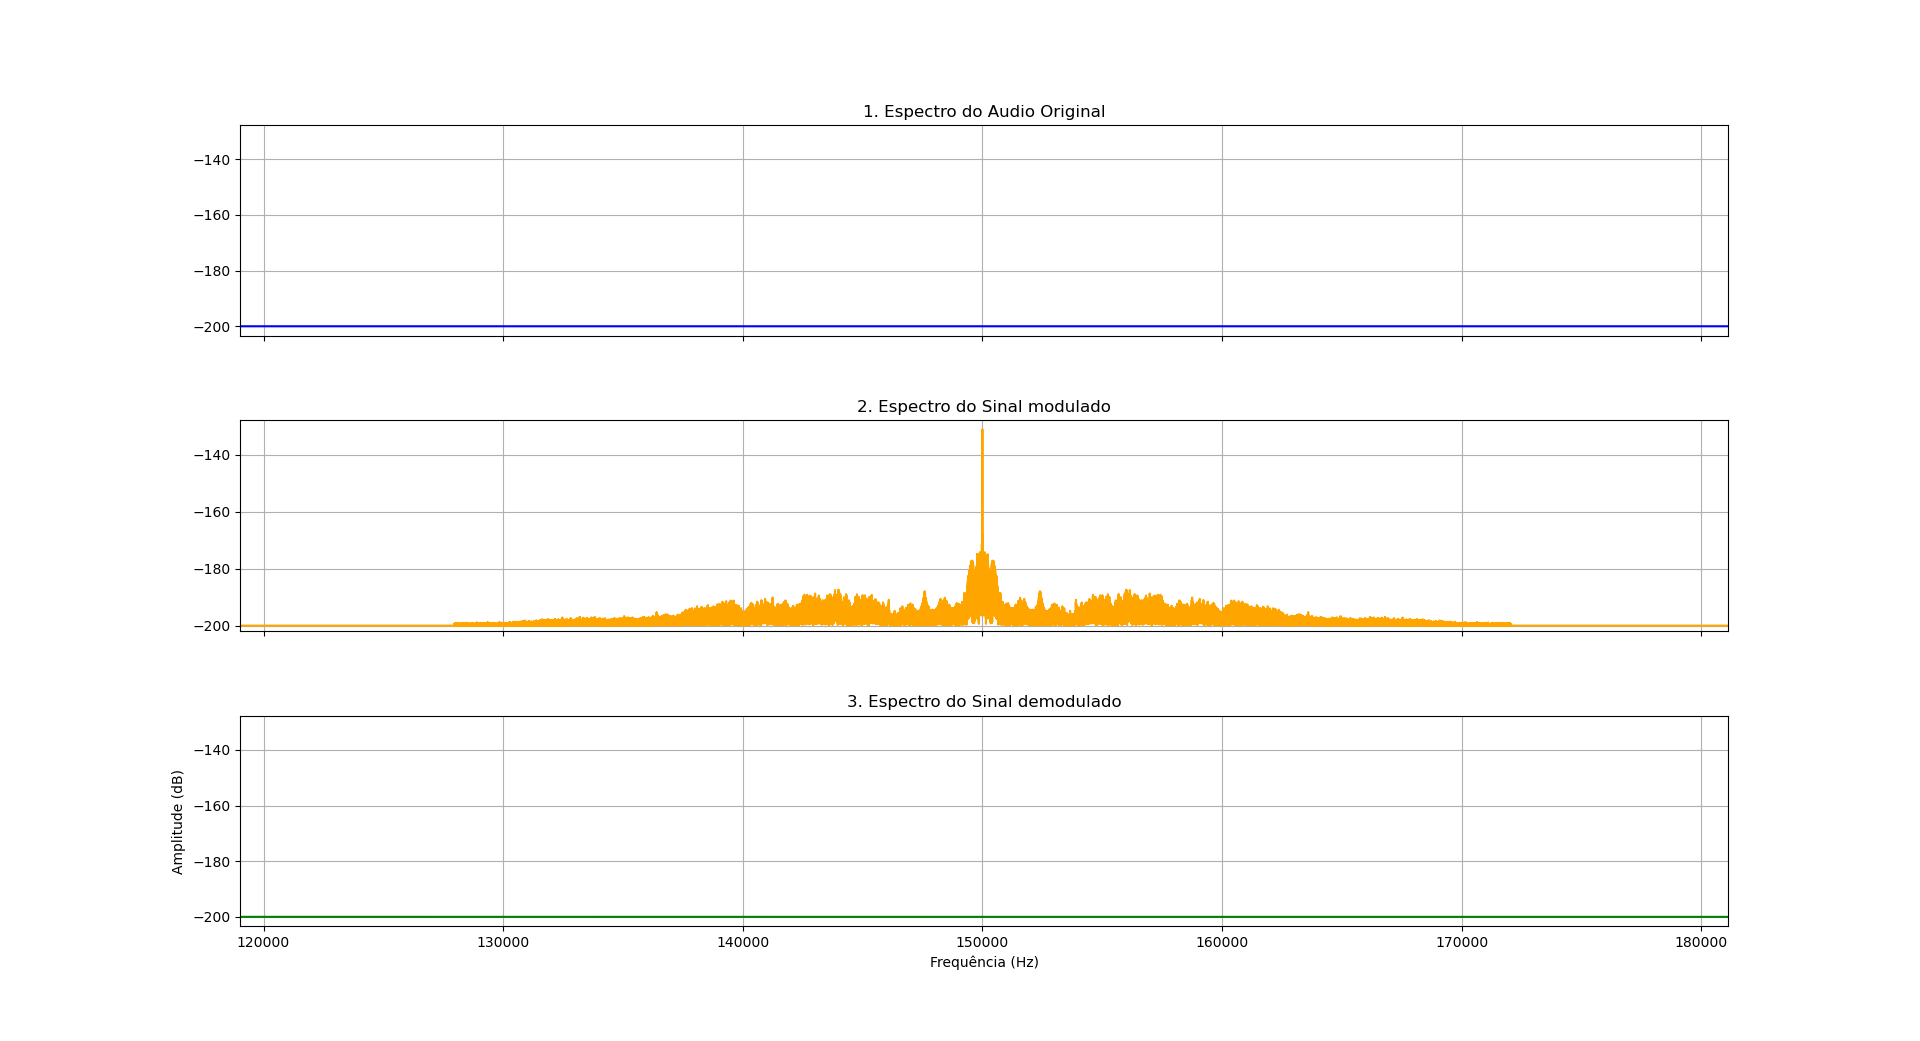
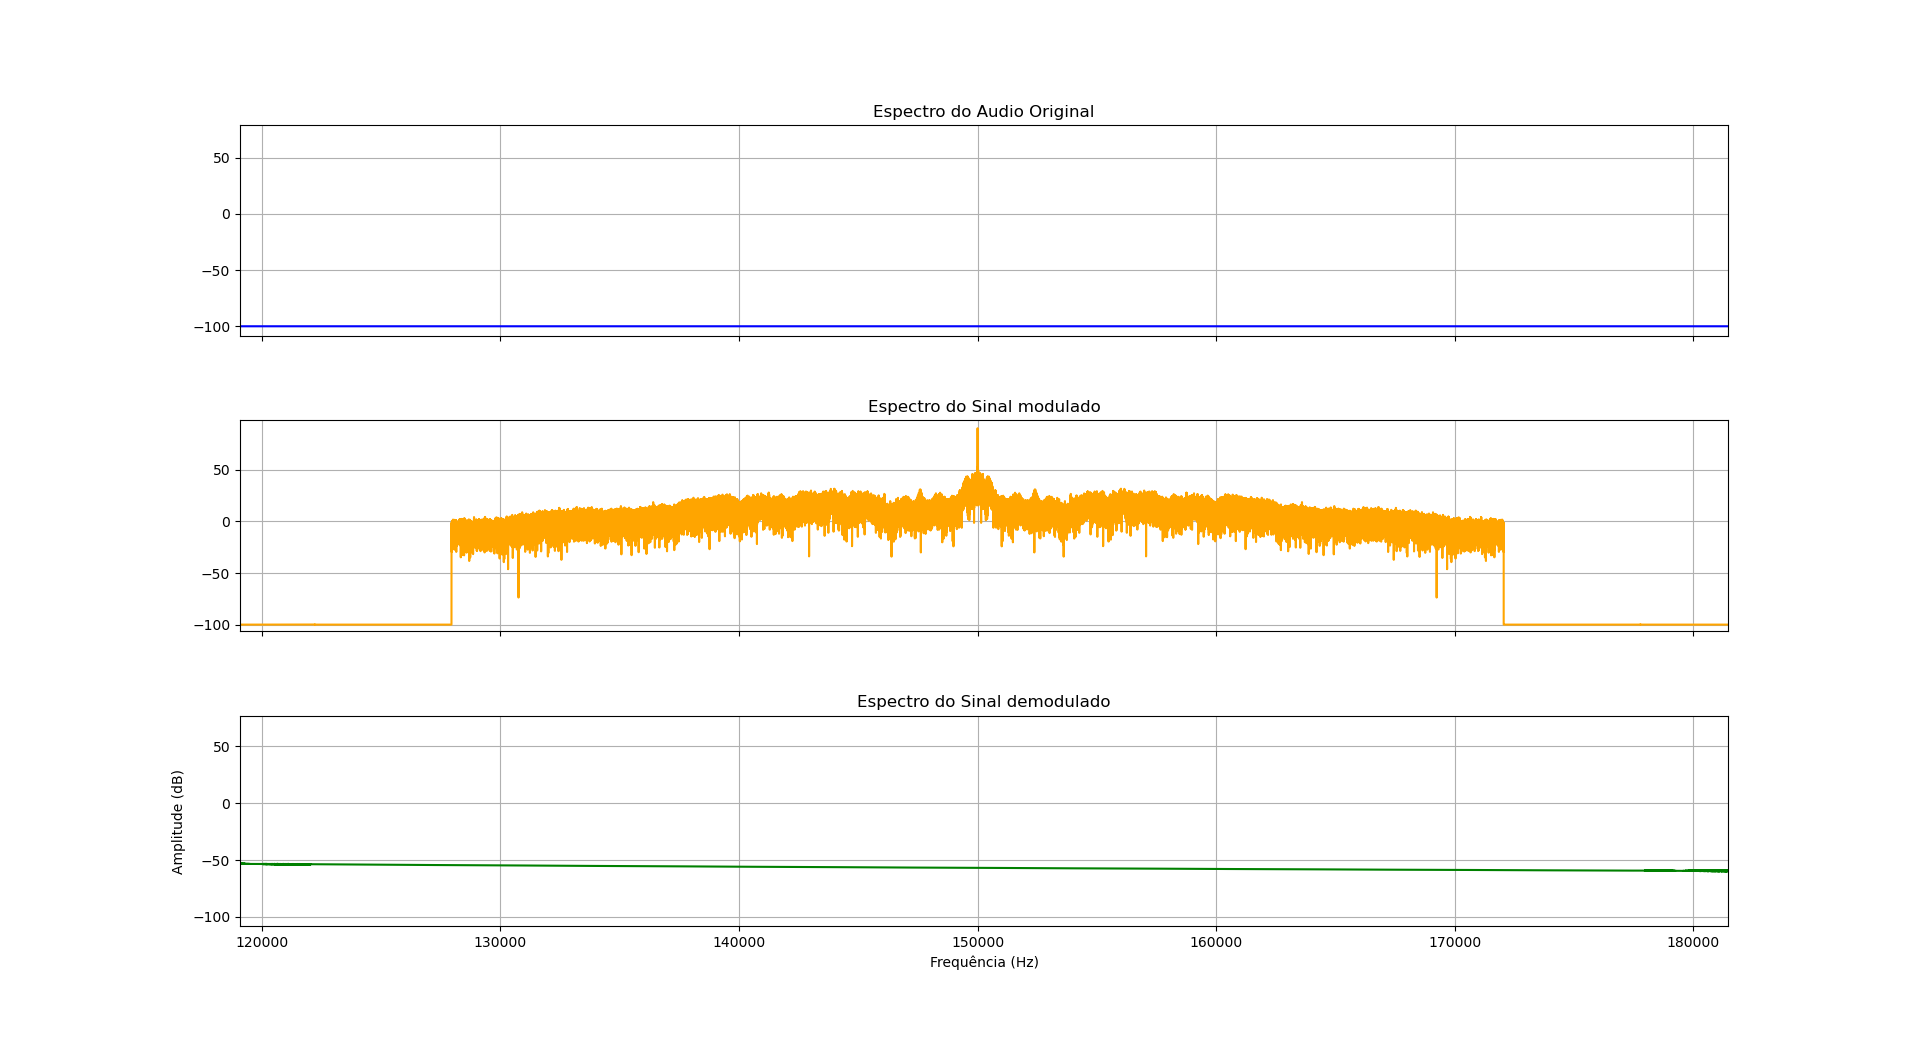
limpeza de código e comentários

diff --git a/main.py b/main.py
@@ -5,6 +5,28 @@ from scipy import signal
 # from filtro.py import filtro_fase_linear
 
 
+def extrair_mensagem(arquivo, fs_simulacao):
+    fs, audio = wavfile.read(arquivo)  # abre o arquivo e o salva em formato uint16
+    # para simplificar, vamos usar o audio MONO
+    if (
+        audio.ndim > 1
+    ):  # se for stereo, converte para mono calculando a média entre os canais
+        audio = audio.mean(axis=1).astype(audio.dtype)
+    # é necessário que a mensagem e a portadora estejam na mesma frequência de amostragem
+    # entretanto, os 44.1 kHz são inssuficientes para uma portadora com alta frequência
+    # Assim, usamos o resample para que a mensagem tenha amostras suficientes para a portadora que iremos usar.
+    mensagem, n_amostras = resample_audio(audio, fs, fs_simulacao)
+    return n_amostras, fs, mensagem
+
+
+def resample_audio(data, freq_original, nova_freq):
+    n_amostras = int(
+        len(data) * (nova_freq / freq_original)
+    )  # recalculando o número de amostras para fazer o resample
+    data_resampled = signal.resample(data, n_amostras)
+    return data_resampled, n_amostras
+
+
 def gerar_portadora(fc, fs_simulacao, n_amostras):
     n = np.arange(n_amostras)
     portadora = 1 * np.cos(
@@ -12,20 +34,6 @@ def gerar_portadora(fc, fs_simulacao, n_amostras):
     )  # Gera portadora cossenoidal.
 
     return portadora
-
-
-def calcular_espectro(sinal, fs):
-    n = len(sinal)
-    sinal_fft = np.fft.fftshift(np.fft.fft(sinal))
-    sinal_fft = np.abs(sinal_fft)
-    sinal_fft = sinal_fft / np.max(sinal_fft)
-
-    # Gera o vetor de frequências de -fs/2 até fs/2
-    f = np.fft.fftshift(np.fft.fftfreq(n, d=1 / fs))
-
-    mag = 20 * np.log10(np.abs(sinal_fft) / n + 1e-10)
-
-    return f, mag
 
 
 def modulacao(portadora, mensagem):
@@ -69,23 +77,6 @@ def filtro_fase_linear(signal, fs, fc, numtaps=101):
     return y
 
 
-def lowpass_filter(x, K):
-    # O filtro é implementado pela equação das diferenças calculado.
-    # Usamos os termos b0, b1 e a1, que dependem dos valores de capacitância e resistência.
-    # Consideramos que o estado inicial é de repouso, logo x[-1] e y[-1] são zero.
-
-    b0 = 1 / (1 + K)
-    b1 = 1 / (1 + K)
-    a1 = (1 - K) / (1 + K)
-
-    y = np.zeros(shape=x.shape)
-    y[0] = b0 * x[0]
-    for n in range(1, len(x)):
-        y[n] = b0 * x[n] + b1 * x[n - 1] - a1 * y[n - 1]
-
-    return y
-
-
 def removedor_DC(s_t):
     s_final = (
         s_t - np.mean(s_t)
@@ -94,68 +85,77 @@ def removedor_DC(s_t):
     return s_final
 
 
+def calcular_espectro(sinal, fs):
+    n = len(sinal)
+    sinal_fft = np.fft.fftshift(np.fft.fft(sinal))
+    # sinal_fft = np.abs(sinal_fft)
+    # sinal_fft = sinal_fft / np.max(sinal_fft)
+    mag_linear = (np.abs(sinal_fft) / n) * 2
+
+    # Gera o vetor de frequências de -fs/2 até fs/2
+    f = np.fft.fftshift(np.fft.fftfreq(n, d=1 / fs))
+
+    mag_db = 20 * np.log10(mag_linear + 1e-5)
+    return f, mag_db
+
+
 def gerar_graficos(mensagem, m_t, s_t, fs):
-    # --- Plotagem ---
+    # --- Plotando os gráficos do sinal no tempo ---
     fig, axs = plt.subplots(4, 1, figsize=(10, 10), sharex=True)
     plt.subplots_adjust(hspace=0.4)
 
     n = np.arange(len(mensagem))
-    # Gráfico 1: Audio original
 
+    # 1. Audio Original
     axs[0].plot(n, mensagem, color="blue")
-    axs[0].set_title("1. Audio Original")
+    axs[0].set_title("Audio Original")
     axs[0].set_ylim(-40000, 40000)
     axs[0].grid(True)
 
-    # Gráfico 2: Portadora
-
-    # Gráfico 3: Sinal Modulado
-
+    # 2. Sinal modulado
     axs[1].plot(n, m_t, color="orange")
-    axs[1].set_title("2. Sinal modulado")
-    # axs[1].set_ylim(-40000, 40000)
+    axs[1].set_title("Sinal modulado")
     axs[1].grid(True)
 
-    # Gráfico 3:
+    # 3. Sinal demodulado
     axs[2].plot(n, s_t, color="green")
-    axs[2].set_title("3. Sinal demodulado")
+    axs[2].set_title("Sinal demodulado")
     axs[2].set_ylim(-40000, 40000)
     axs[2].grid(True)
 
+    # 4. Diferença entre o sinal original, e o demodulado
     axs[3].plot(n, mensagem - s_t, color="orange")
-    axs[3].set_title("4. Diferença entre o sinal original, e o demodulado")
+    axs[3].set_title("Diferença entre o sinal original, e o demodulado")
     axs[3].set_ylim(-40000, 40000)
     axs[3].grid(True)
 
-    # plt.xlabel("Tempo (s)")
+    plt.xlabel("Tempo (s)")
     plt.show()
-    # implementar função do gráfico
-    #
+
+    # --- Plotando os espectros dos sinais ---
 
     fig, axs = plt.subplots(3, 1, figsize=(10, 10), sharex=True)
     plt.subplots_adjust(hspace=0.4)
 
+    # 1. Espectro do Audio Original
     f, mensagem_dfft = calcular_espectro(mensagem, fs)
     axs[0].plot(f, mensagem_dfft, color="blue")
-    axs[0].set_title("1. Espectro do Audio Original")
-    # axs[0].set_ylim(-40000, 40000)
+    axs[0].set_title("Espectro do Audio Original")
+    axs[0].set_xlim(-200000, 200000)
     axs[0].grid(True)
 
-    # Gráfico 2: Portadora
-
-    # Gráfico 3: Sinal Modulado
-
+    # 2. Espectro do Sinal modulado
     f, m_t_dfft = calcular_espectro(m_t, fs)
     axs[1].plot(f, m_t_dfft, color="orange")
-    axs[1].set_title("2. Espectro do Sinal modulado")
-    # axs[1].set_ylim(-40000, 40000)
+    axs[1].set_title("Espectro do Sinal modulado")
+    axs[1].set_xlim(-200000, 200000)
     axs[1].grid(True)
 
-    # Gráfico 3:
+    # 3. Espectro do Sinal demodulado
     f, s_t_dfft = calcular_espectro(s_t, fs)
     axs[2].plot(f, s_t_dfft, color="green")
-    axs[2].set_title("3. Espectro do Sinal demodulado")
-    # axs[2].set_ylim(-40000, 40000)
+    axs[2].set_title("Espectro do Sinal demodulado")
+    axs[2].set_xlim(-200000, 200000)
     axs[2].grid(True)
 
     plt.xlabel("Frequência (Hz)")
@@ -163,30 +163,6 @@ def gerar_graficos(mensagem, m_t, s_t, fs):
     plt.show()
 
     return
-
-
-def resample_audio(data, freq_original, nova_freq):
-    n_amostras = int(
-        len(data) * (nova_freq / freq_original)
-    )  # recalculando o número de amostras para fazer o resample
-    data_resampled = signal.resample(data, n_amostras)
-    return data_resampled, n_amostras
-
-
-def extrair_mensagem(arquivo, fs_simulacao):
-    fs, audio = wavfile.read(arquivo)  # abre o arquivo e o salva em formato uint16
-
-    # para simplificar, vamos usar o audio MONO
-    if (
-        audio.ndim > 1
-    ):  # se for stereo, converte para mono calculando a média entre os canais
-        audio = audio.mean(axis=1).astype(audio.dtype)
-
-    # é necessário que a mensagem e a portadora estejam na mesma frequência de amostragem
-    # entretanto, os 44.1 kHz são inssuficientes para uma portadora com alta frequência
-    # Assim, usamos o resample para que a mensagem tenha amostras suficientes para a portadora que iremos usar.
-    mensagem, n_amostras = resample_audio(audio, fs, fs_simulacao)
-    return n_amostras, fs, mensagem
 
 
 def salvar_audio(audio, fs_simulacao, fs):
@@ -206,14 +182,20 @@ if __name__ == "__main__":
     # queremos uma frequência de simulação alta o suficiente para "ver" a portadora.
     arquivo = "audio.wav"
 
+    # Passo 1: extrair o arquivo de audio
     n_amostras, fs_audio, mensagem = extrair_mensagem(arquivo, fs_simulacao)
 
+    # Passo 2: gerar uma portadora com o mesmo tamanho (n de amostras) do audio
     portadora = gerar_portadora(fc, fs_simulacao, n_amostras)
 
+    # Passo 3: modular via AM convencional
     mensagem_modulada = modulacao(portadora, mensagem)
 
+    # Passo 4: demodular o sinal modulado
     mensagem_demodulada = demodulacao(mensagem_modulada, fs_simulacao, f_corte)
 
+    # Passo 5: salvar o arquivo da mensagem demodulada
     salvar_audio(mensagem_demodulada, fs_simulacao, fs_audio)
 
+    # Passo 6: gerar os gráficos dos sinais, e os espectros
     gerar_graficos(mensagem, mensagem_modulada, mensagem_demodulada, fs_simulacao)

diff --git a/filtro.py b/filtro.py
@@ -17,6 +17,12 @@ def filtro_fase_linear(fs, fc, numtaps=101):
     return h_final
 
 
+# def low_pass_filter(m_t_hat):
+#     windows_size = 50
+#     kernel = np.ones(windows_size) / windows_size
+#     s_t = np.convolve(m_t_hat, kernel, mode="same")
+#     return s_t
+
 if __name__ == "__main__":
     fs = 1_000_000  # 1 MHz
     fc = 15_000  # 15 kHz
